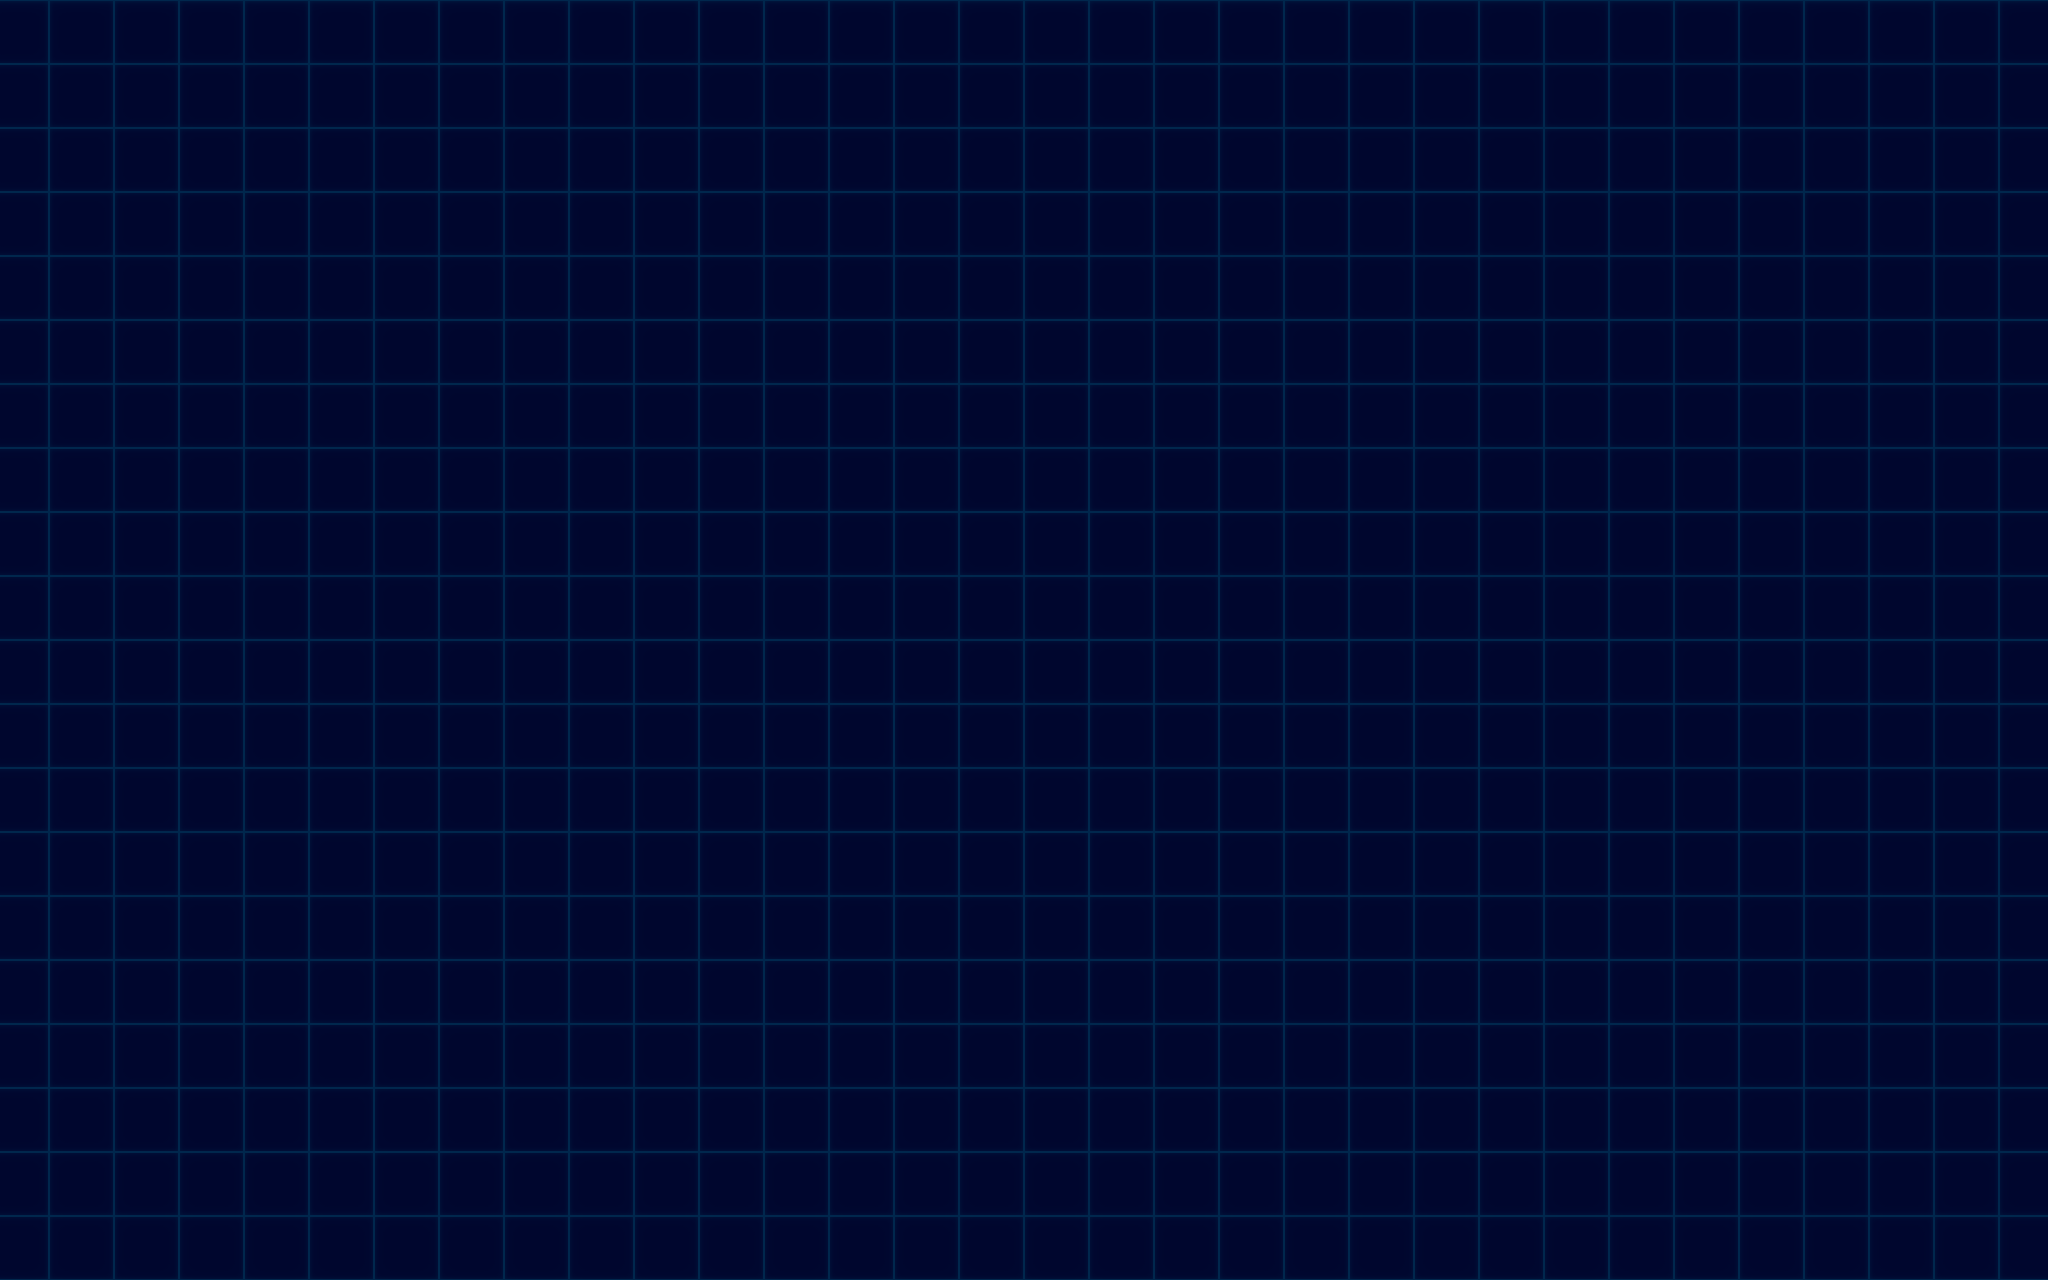
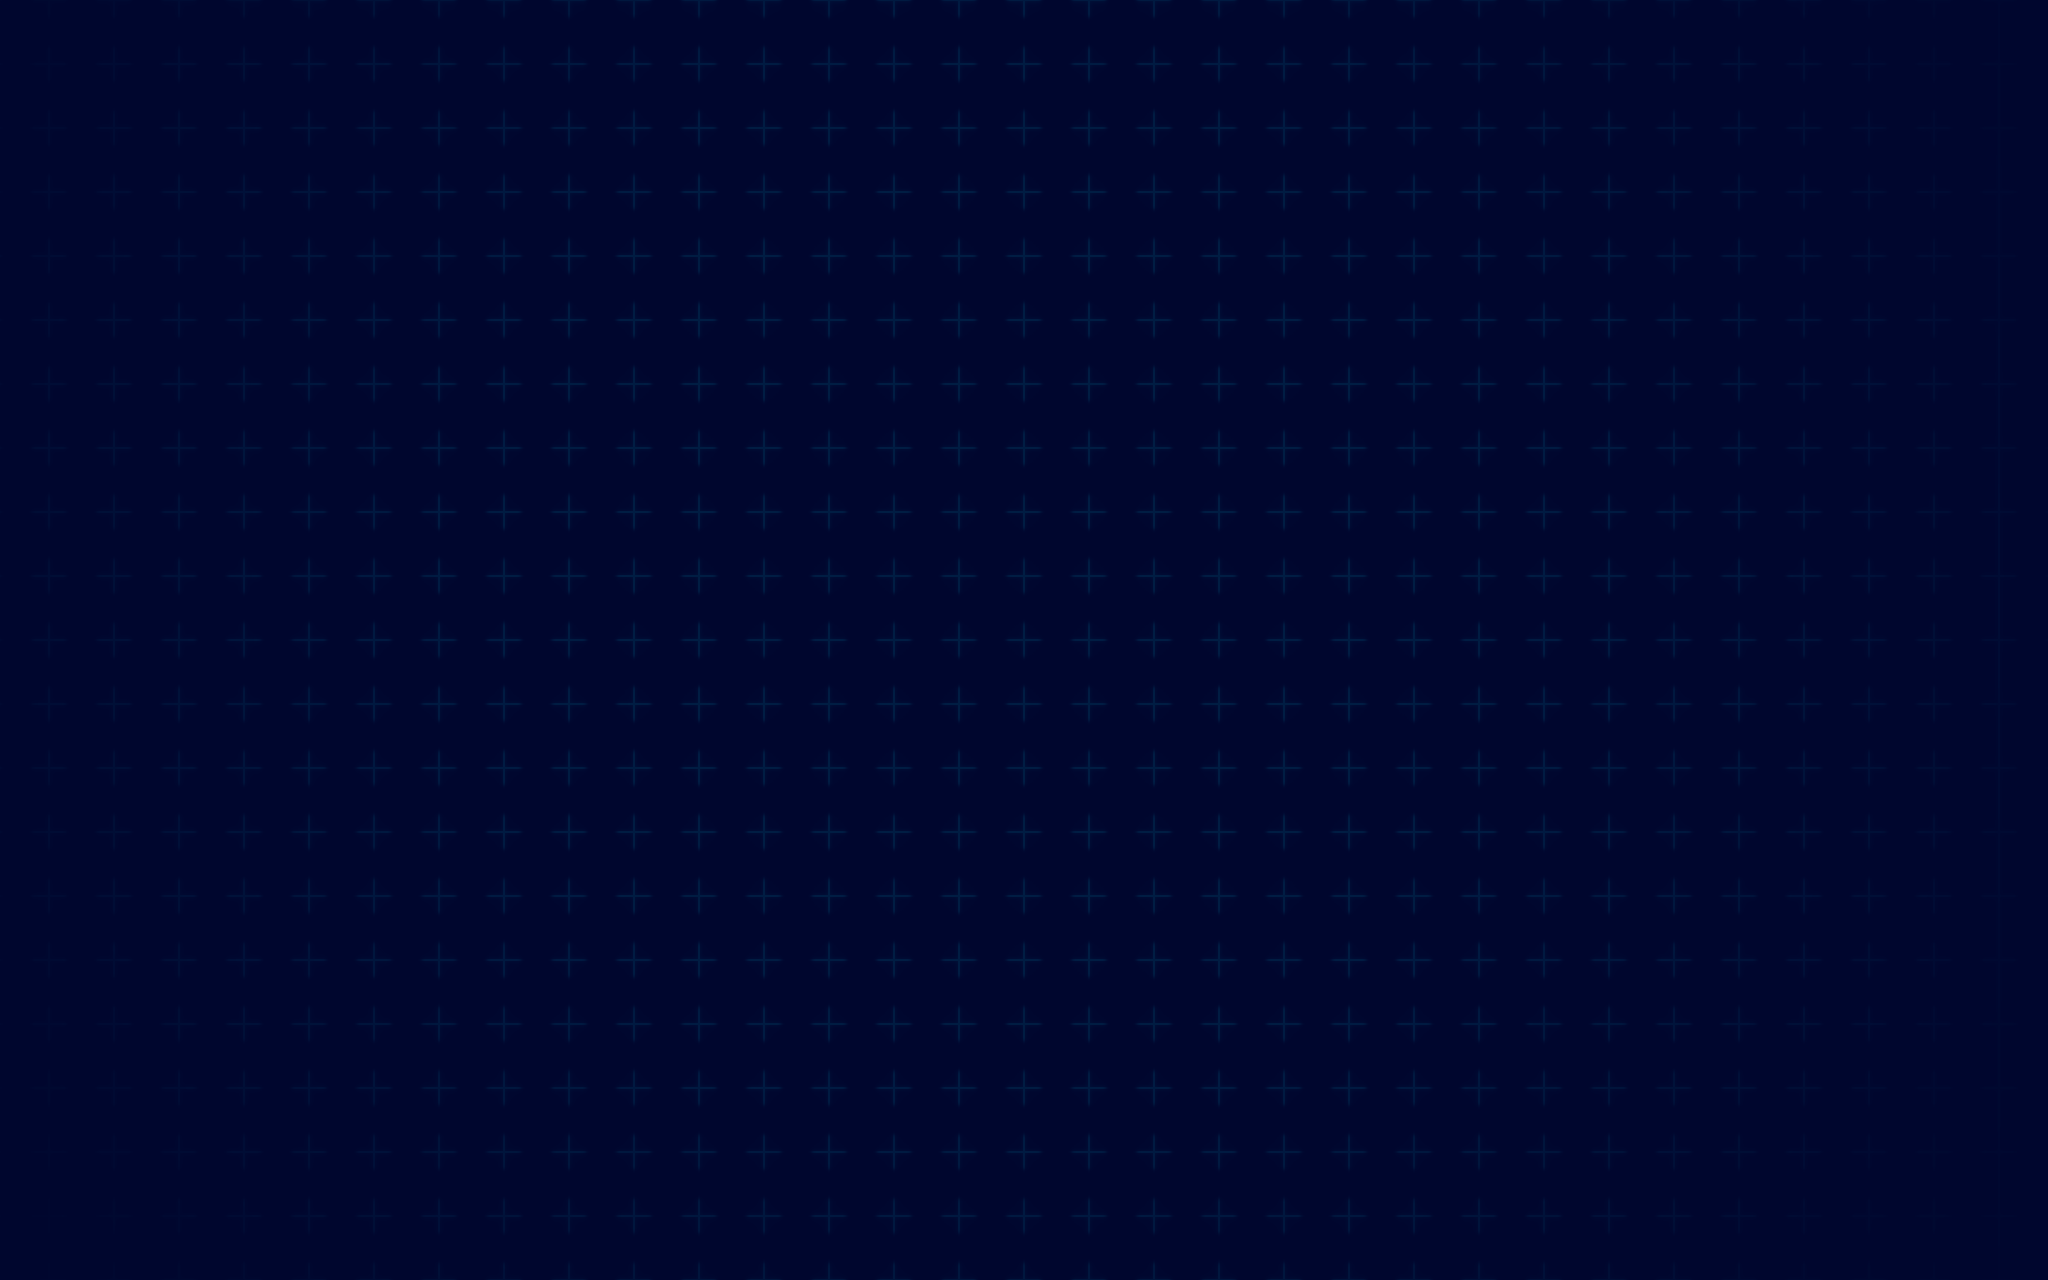
Swap to training room tiles.

diff --git a/src/App.js b/src/App.js
@@ -4,7 +4,6 @@ import './style.css';
 import footer from './images/footer.png';
 import Cloud from './Components/Cloud';
 import ResponsivePlayer from './Components/ResponsivePlayer';
-import  ParallaxLayer from './Components/ParallaxLayer';
 import FeatureBox from './Components/FeatureBox';
 import Gallery from './Components/Gallery';
 import BannerLogo from './Components/BannerLogo';
@@ -30,7 +29,6 @@ class App extends Component {
         return (
             <div className="App">
                 <div class="parallax">
-
                     <div class="parallax__group">
                         <div class="parallax__layer parallax__layer--base">
                             <div className="header">
@@ -39,44 +37,45 @@ class App extends Component {
                             <div className="container">
                                 <ResponsivePlayer />
                                 <div><p className="bold">Experience a rhythmic blend of combat and platforming as you fight to unravel a mystery that threatens to tear your city apart.</p></div>
-                                
-                                <div className="embed-responsive embed-responsive-16by9 steamLink">
-                                    <iframe className="embed-responsive-item" title="Steam" src="https://store.steampowered.com/widget/745560/" frameBorder="0" ></iframe>
+                            </div>    
+
+                            <div id="mainContent">  
+                                <div className="container">
+                                    <div className="embed-responsive embed-responsive-16by9 steamLink">
+                                        <iframe className="embed-responsive-item" title="Steam" src="https://store.steampowered.com/widget/745560/" frameBorder="0" ></iframe>
+                                    </div>
+
+                                    <FeatureBox animSrc="Combat.gif">
+                                        <h4>Experience a Rhythmic Blend of Combat and Platforming</h4>
+                                        In Overclocked, one hit means death. Gameplay is divided into short levels that constantly throw new obstacles at the player. In order to survive, you must learn to constantly adapt to these challenges. To thrive, you must master the controls and your ability to fight.
+                                    </FeatureBox>
+
+                                    <FeatureBox animSrc="Dialogue.gif" imgLeft={true}>
+                                        <h4>Unravel a Mystery Threatening your Home</h4>
+                                        Each episode in Overclocked is driven forward by a compelling story of intrigue and danger. Follow Amber as she and her friends work together to hunt down the source of a virus that is taking control of the people around them.
+                                    </FeatureBox>
+
+                                    <FeatureBox animSrc="Challenges.gif" >
+                                        <h4>Push Beyond your Limits</h4>
+                                        Finding the main story too easy? Each stage has a bonus objective waiting to be conquered. Complete enough of these bonus objectives and you’ll unlock brutally difficult challenge levels that will put even the best players to the test.
+                                    </FeatureBox>
+
+                                    <Gallery images={GALLERY_IMAGES.map(({ src, thumbnail,  caption }) => ({
+                                        src: updateImgPaths(src),
+                                        thumbnail: updateImgPaths(thumbnail), 
+                                        caption
+                                    }))} showThumbnails />
                                 </div>
-                                <FeatureBox animSrc="Combat.gif">
-                                    <h4>Experience a Rhythmic Blend of Combat and Platforming</h4>
-                                    In Overclocked, one hit means death. Gameplay is divided into short levels that constantly throw new obstacles at the player. In order to survive, you must learn to constantly adapt to these challenges. To thrive, you must master the controls and your ability to fight.
-                                </FeatureBox>
-
-                                <FeatureBox animSrc="Dialogue.gif" imgLeft={true}>
-                                    <h4>Unravel a Mystery Threatening your Home</h4>
-                                    Each episode in Overclocked is driven forward by a compelling story of intrigue and danger. Follow Amber as she and her friends work together to hunt down the source of a virus that is taking control of the people around them.
-                                </FeatureBox>
-
-                                <FeatureBox animSrc="Challenges.gif" >
-                                    <h4>Push Beyond your Limits</h4>
-                                    Finding the main story too easy? Each stage has a bonus objective waiting to be conquered. Complete enough of these bonus objectives and you’ll unlock brutally difficult challenge levels that will put even the best players to the test.
-                                </FeatureBox>
-
-                                <Gallery images={GALLERY_IMAGES.map(({ src, thumbnail,  caption }) => ({
-                                    src: updateImgPaths(src),
-                                    thumbnail: updateImgPaths(thumbnail), 
-                                    caption
-                                }))} showThumbnails />
-                            </div>     
-                            <div className="footer">
-                                <p>Website Designed by Rhea Lauzon. Copyright 2018 Magnesium Ninja.</p> 
-                            </div>                      
+                            </div>
                         </div>
                     </div>
-
                     <div id="clouds" class="parallax__group">
-                        <div class="parallax__layer parallax__layer--back">
+                        <div class="parallax__layer parallax__layer--deep">
                             <Cloud depth={0.3}xOffset={0.7} yOffset={50}/>
                             <Cloud depth={0.1} xOffset={0.2} yOffset={0}/>
                             <Cloud depth={0.05} xOffset={0.5} yOffset={85}/>
                         </div>
-                    </div>                
+                    </div>                  
                 </div>                
         </div>
         );

diff --git a/src/style.css b/src/style.css
@@ -12,23 +12,24 @@ html, body
     -moz-background-size: cover;
     -o-background-size: cover;
     background-size: cover;
-    overflow: hidden;
+    overflow: hidden; 
     height: 100%;
+}
+
+@font-face {
+    font-family: Gobold;
+    src: url("fonts/gobold_regular.ttf");
+}
+
+@font-face {
+    font-family: SuiGeneris;
+    src: url("fonts/sui_generis.ttf");
 }
 
 
 span, p {
     color: #FFF;    
-}
-
-@font-face {
-    font-family: Gobold, Arial, Helvetica, sans-serif;
-    src: url("fonts/Gobold Regular.ttf");
-}
-
-@font-face {
-    font-family: SuiGeneris, Arial, Helvetica, sans-serif;
-    src: url("fonts/sui generis rg.ttf");
+    font-family: "SuiGeneris";
 }
 
 p.bold {
@@ -44,6 +45,7 @@ h4 {
     color: red;
     line-height: 1.5em;
     font-size: 1.5em;
+    font-family: Gobold;
 }
 
 img {
@@ -95,12 +97,12 @@ img {
 /* FeatureBox / LinkBox styling */
 /*********************************/
 .featureBox {
-    background: rgba(0, 0, 0, 0.70);
+    background: rgba(0, 0, 0, 0.40);
     padding: 5%;
     width: 100%;
     text-align: justify;
     margin: 10vh 0;
-    border: 2px solid rgba(255, 255, 255, 0.70);
+    border: 2px solid rgba(255, 255, 255, 0.40);
 }
 
 .featureBox > span {
@@ -138,12 +140,12 @@ img {
 /* Gallery Styling */
 /*******************/
 .gallery {
-    background: rgba(0, 0, 0, 0.70);
+    background: rgba(0, 0, 0, 0.40);
     overflow: hidden;
     padding: 5%;
     width: 100%;
     margin: 10vh 0;
-    border: 2px solid rgba(255, 255, 255, 0.70);
+    border: 2px solid rgba(255, 255, 255, 0.40);
     display: table;
     table-layout: fixed;
 }
@@ -177,20 +179,12 @@ img {
     cursor: pointer;
 }
 
-/*******************************/
-/*      Parallax Layers        */
-/*******************************/
-.city {
-    position: absolute;
-    width: 100%;
-}
-
 @keyframes slide {
     from {
-        left: -40%;
+        left: -800px;
     }
     to {
-        left: 100%;
+        left: 120vw;
     }
 }
 
@@ -245,4 +239,10 @@ img {
 
 #clouds { 
     z-index: -1;
+}
+
+#mainContent {
+    padding-top: 3%;
+    padding-bottom: 3%;
+    background: url("images/trainingRoom.png") repeat; 
 }

diff --git a/src/Components/FeatureBox.js b/src/Components/FeatureBox.js
@@ -47,7 +47,7 @@ export default class FeatureBox extends React.Component {
         if (this.props.imgLeft) {
             return (
                 <span className="row">
-                    {/* { this.renderImage() } */}
+                    { this.renderImage() }
                     { this.renderText() }
                 </span>
             );
@@ -56,7 +56,7 @@ export default class FeatureBox extends React.Component {
             return (
                 <span className="row">
                     { this.renderText() }
-                    {/* { this.renderImage() } */}
+                    { this.renderImage() }
                 </span>
             );
         }

diff --git a/src/Components/ResponsivePlayer.js b/src/Components/ResponsivePlayer.js
@@ -7,7 +7,7 @@ export default class ResponsivePlayer extends Component {
         <div className='player-wrapper embed-responsive embed-responsive-16by9'>
           <ReactPlayer 
             className='react-player embed-responsive-item'
-            url='https://youtu.be/Flc0ogSQWRE'
+            url='https://www.youtube.com/watch?v=16zTg5ZQ6l0'
             width='100%'
             height='100%'
             controls={true}
